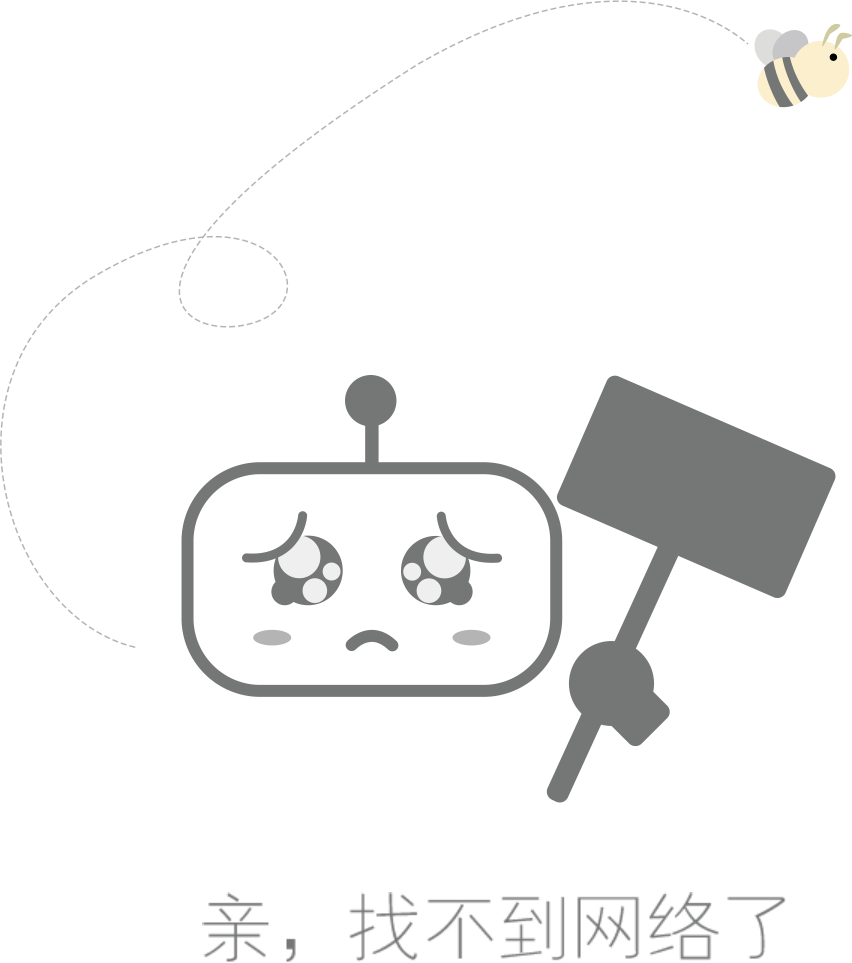
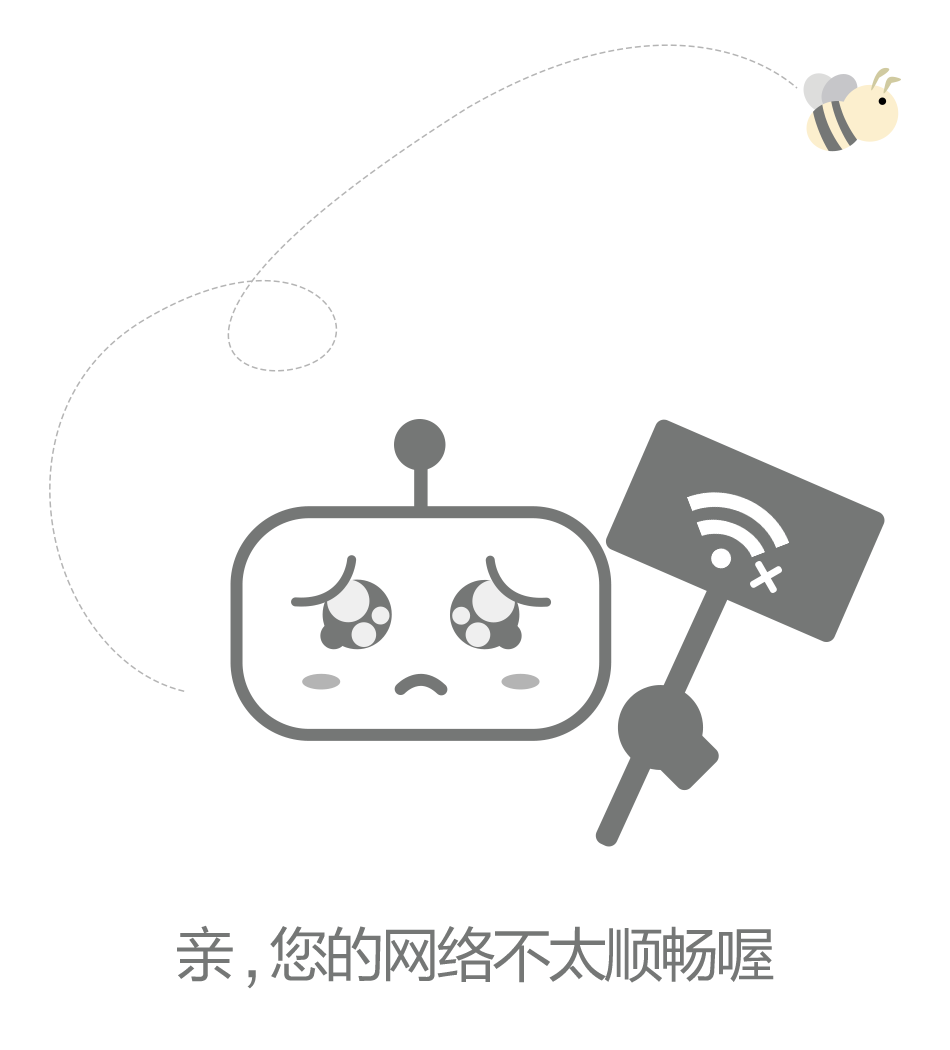
as

diff --git a/app/src/main/assets/net_err_hint.html b/app/src/main/assets/net_err_hint.html
@@ -1,18 +1,34 @@
-<!DOCTYPE html PUBLIC "-//W3C//DTD XHTML 1.0 Transitional//EN" "http://www.w3.org/TR/xhtml1/DTD/xhtml1-transitional.dtd">
-<html xmlns="http://www.w3.org/1999/xhtml" style="width:100%;height:100%;background-color:white;">
+<!DOCTYPE html PUBLIC "-//W3C//DTD XHTML 1.0 Transitional//EN"
+        "http://www.w3.org/TR/xhtml1/DTD/xhtml1-transitional.dtd">
+<html xmlns="http://www.w3.org/1999/xhtml">
 <head>
     <meta http-equiv="Content-Type" content="text/html; charset=utf-8"/>
-    <meta name="viewport" content="width=device-width, initial-scale=1.0, maximum-scale=1.0, user-scalable=0">
+    <meta name="viewport"
+          content="width=device-width, initial-scale=1.0, maximum-scale=1.0, user-scalable=0">
     <meta http-equiv="Cache-Control" content="no-cache, no-store, must-revalidate"/>
     <meta http-equiv="Pragma" content="no-cache"/>
     <meta http-equiv="Expires" content="0"/>
     <title>页面错误</title>
-    <link type="text/css" rel="stylesheet" href="http://wx.cdkuaisao.com/Public/modules/kuaisao/css/index.css"/>
+    <link type="text/css" rel="stylesheet"
+          href="http://wx.cdkuaisao.com/Public/modules/kuaisao/css/index.css"/>
 </head>
 
-<body>
+<body style="background-color:#fff">
 <div class="business">
-	<img style="width:100%;height:100%;" src="error_1.png" alt="background"/>
+    <img style="text-align: center;width:100%;height:100%;" src="error_1.png" alt="background"/>
+
+    <div style="padding-left:20%;padding-right:20%;padding-top:10px">
+        <div style="height: 40px;
+    width: 100%;
+    -webkit-border-radius: 50px;
+    background-color: #fd3a3a;
+    line-height: 40px;
+    text-align: center;
+    color: white;
+    font-size: 20px;" onclick="app.refresh()">
+            重新加载
+        </div>
+    </div>
 </div>
 </body>
 </html>

diff --git a/app/src/main/java/com/cjq/aijia/activity/CommonWebviewActivity.java b/app/src/main/java/com/cjq/aijia/activity/CommonWebviewActivity.java
@@ -12,6 +12,8 @@ import android.net.http.SslError;
 import android.os.Build;
 import android.os.Bundle;
 import android.os.Environment;
+import android.os.Handler;
+import android.os.PersistableBundle;
 import android.provider.DocumentsContract;
 import android.provider.MediaStore;
 import android.support.v4.widget.SwipeRefreshLayout;
@@ -21,6 +23,7 @@ import android.view.Menu;
 import android.view.MenuInflater;
 import android.view.MenuItem;
 import android.view.View;
+import android.view.Window;
 import android.webkit.ConsoleMessage;
 import android.webkit.GeolocationPermissions;
 import android.webkit.JavascriptInterface;
@@ -79,6 +82,8 @@ public class CommonWebViewActivity extends BaseActivity implements SwipeRefreshL
     private Uri mUri;
     private ValueCallback<Uri> mUploadMsg;
     private boolean titleFlag;
+    private Handler handler=new Handler();
+    private String url_temp;
 
     @Override
     protected void onDestroy() {
@@ -92,6 +97,8 @@ public class CommonWebViewActivity extends BaseActivity implements SwipeRefreshL
         super.onCreate(savedInstanceState);
         setContentView(R.layout.activity_common_webview);
         ButterKnife.inject(this);
+//        if(savedInstanceState!=null)
+//        mUri= Uri.parse(savedInstanceState.getString("path"));
 
         Intent intent = getIntent();
         String urlS = intent.getStringExtra(EXTRA_URL);
@@ -102,6 +109,9 @@ public class CommonWebViewActivity extends BaseActivity implements SwipeRefreshL
 
         WebSettings webSettings = web.getSettings();
         webSettings.setJavaScriptEnabled(true);
+        webSettings.setSupportZoom(false);
+        webSettings.setCacheMode(WebSettings.LOAD_NO_CACHE);
+
 //        webSettings.setAllowFileAccess(true);
 //        webSettings.setBuiltInZoomControls(true);
 
@@ -111,6 +121,19 @@ public class CommonWebViewActivity extends BaseActivity implements SwipeRefreshL
                 SaveTool.clear(CommonWebViewActivity.this);
                 EventBus.getDefault().post(new EventJumpIndex().setNum(3));
                 finish();
+            }
+
+            @JavascriptInterface
+            public void refresh(){
+                if(!refreshLayout.isRefreshing()){
+                    handler.post(new Runnable() {
+                        @Override
+                        public void run() {
+                            refreshLayout.setRefreshing(true);
+                            onRefresh();
+                        }
+                    });
+                }
             }
         }, "app");
 
@@ -226,6 +249,9 @@ public class CommonWebViewActivity extends BaseActivity implements SwipeRefreshL
             public void onReceivedError(WebView view, int errorCode, String description, String failingUrl) {
 //                refreshLayout.setVisibility(View.VISIBLE);
 //                flag=false;
+                if(!"file:///android_asset/net_err_hint.html".equals(failingUrl)){
+                    url_temp = failingUrl;
+                }
                 view.stopLoading();
                 view.loadUrl("file:///android_asset/net_err_hint.html");
                 super.onReceivedError(view, errorCode, description, failingUrl);
@@ -247,8 +273,7 @@ public class CommonWebViewActivity extends BaseActivity implements SwipeRefreshL
 
             @Override
             public void onReceivedError(WebView view, WebResourceRequest request, WebResourceError error) {
-                view.stopLoading();
-                view.loadUrl("file:///android_asset/net_err_hint.html");
+
                 super.onReceivedError(view, request, error);
             }
         });
@@ -384,6 +409,7 @@ public class CommonWebViewActivity extends BaseActivity implements SwipeRefreshL
                 break;
 
             case 0:
+
                 if (resultCode == RESULT_OK) {
                     if (mFilePathCallback != null)
                         mFilePathCallback.onReceiveValue(new Uri[]{mUri});
@@ -410,6 +436,10 @@ public class CommonWebViewActivity extends BaseActivity implements SwipeRefreshL
     public final void onRefresh() {
 //        dealURL(url);
 //        web.loadUrl(url);
+        if(url_temp!=null){
+            web.loadUrl(url_temp);
+            url_temp=null;
+        }else
         web.reload();
 //        flag=true;
     }
@@ -447,4 +477,12 @@ public class CommonWebViewActivity extends BaseActivity implements SwipeRefreshL
                 break;
         }
     }
+
+//    @Override
+//    public void onSaveInstanceState(Bundle outState, PersistableBundle outPersistentState) {
+//
+//        outState.putString("path",mUri.toString());
+//
+//        super.onSaveInstanceState(outState, outPersistentState);
+//    }
 }

diff --git a/app/src/main/java/com/cjq/aijia/fragments/WebViewFragment.java b/app/src/main/java/com/cjq/aijia/fragments/WebViewFragment.java
@@ -9,6 +9,7 @@ import android.database.Cursor;
 import android.net.Uri;
 import android.os.Bundle;
 import android.os.Environment;
+import android.os.Handler;
 import android.provider.MediaStore;
 import android.support.annotation.Nullable;
 import android.support.v4.app.Fragment;
@@ -58,12 +59,15 @@ public class WebViewFragment extends Fragment implements SwipeRefreshLayout.OnRe
     private ValueCallback<Uri[]> mFilePathCallback;
     private Uri mUri;
     private ValueCallback<Uri> mUploadMsg;
+    private String url_temp;
 
     public static Fragment getInstance() {
         if (INSTANCE == null)
             INSTANCE = new WebViewFragment();
         return INSTANCE;
     }
+
+    private Handler handler = new Handler();
 
     @InjectView(R.id.main_web)
     WebView webView;
@@ -151,13 +155,27 @@ public class WebViewFragment extends Fragment implements SwipeRefreshLayout.OnRe
         webView.setVerticalScrollBarEnabled(false);
         webView.setHorizontalScrollBarEnabled(false);
         WebSettings webSettings = webView.getSettings();
-
         webSettings.setJavaScriptEnabled(true);
+        webSettings.setSupportZoom(false);
+        webSettings.setCacheMode(WebSettings.LOAD_NO_CACHE);
         webView.addJavascriptInterface(new JsInterface() {
             @JavascriptInterface
             public void login_request() {
                 SaveTool.clear(getActivity());
                 EventBus.getDefault().post(new EventJumpIndex().setNum(3));
+            }
+
+            @JavascriptInterface
+            public void refresh(){
+                if(!refreshLayout.isRefreshing()){
+                    handler.post(new Runnable() {
+                        @Override
+                        public void run() {
+                            refreshLayout.setRefreshing(true);
+                            onRefresh();
+                        }
+                    });
+                }
             }
         }, "app");
         webView.setWebChromeClient(new WebChromeClient() {
@@ -207,6 +225,9 @@ public class WebViewFragment extends Fragment implements SwipeRefreshLayout.OnRe
                                      @Override
                                      public void onReceivedError(WebView view, int errorCode, String description, String failingUrl) {
                                          super.onReceivedError(view, errorCode, description, failingUrl);
+                                         if(!"file:///android_asset/net_err_hint.html".equals(failingUrl)){
+                                             url_temp = failingUrl;
+                                         }
                                          view.stopLoading();
                                          view.loadUrl("file:///android_asset/net_err_hint.html");
                                      }
@@ -326,6 +347,10 @@ public class WebViewFragment extends Fragment implements SwipeRefreshLayout.OnRe
     public final void onRefresh() {
 //        dealURL(url);
 //        webView.loadUrl(url);
+        if(url_temp!=null){
+            webView.loadUrl(url_temp);
+            url_temp=null;
+        }else
         webView.reload();
     }
 
